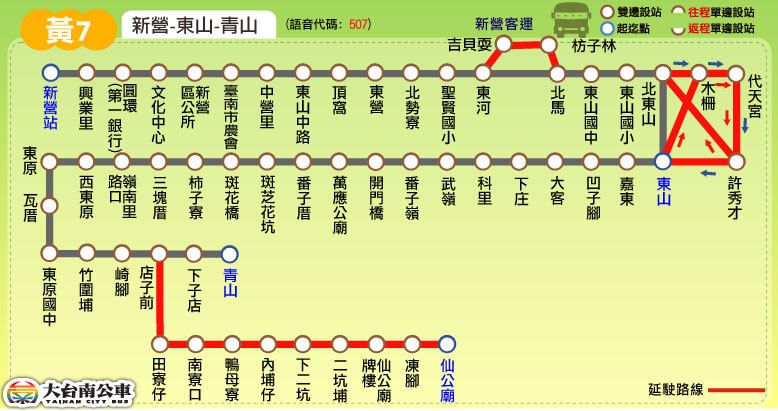
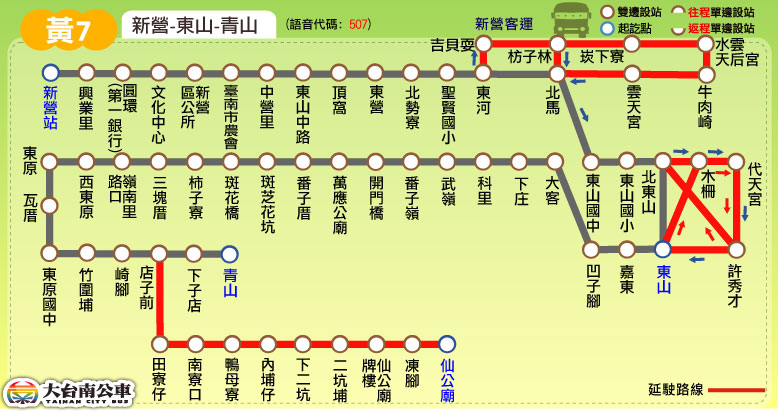
更新路線圖、時刻表：黃7(新增「新營-水雲里-東山」班次)

Changed region(s): [[0.5553, 0.0584, 0.9871, 0.7591]]

diff --git a/route/fare_and_time/yellow_7.js b/route/fare_and_time/yellow_7.js
@@ -3,7 +3,7 @@ yellow_7_interval_stop = [ // 2018.07.03 checked
 ["新營站","興業里","圓環(第一銀行)","文化中心","新營區公所","臺南市農會"], // 新營
 ["中營里","東山中路","頂窩","東營"], // 頂窩
 ["北勢寮","聖賢國小"], // 北勢寮
-["東河","吉貝耍","枋子林"], // 東河
+["東河","吉貝耍","枋子林","崁下寮","水雲天后宮","牛肉崎","雲天宮"], // 東河
 ["北馬"], // 北馬
 ["東山國中","東山國小","北東山","木柵","代天宮","許秀才","東山","嘉東"], // 東山
 ["凹子腳","大客","下庄","科里"], // 大客
@@ -40,63 +40,72 @@ yellow_7_fare = [
 // format = [time at the start stop] or
 // [time, other] or
 // [time, start_stop, end_stop, other]
-yellow_7_main_stop_name = ["新營","東河","吉貝耍","北東山","許秀才","東山","斑花橋","東原","青山","仙公廟<br /><font color=\"red\">(假日延駛)</font>"];
-yellow_7_main_stop_time_consume = [0, 18, 19, 26, 30, 28, 39, 45, 50, 70];
-yellow_7_important_stop = [0, 5, 8, 9]; // 新營, 東山, 青山, 仙公廟
+yellow_7_main_stop_name = ["新營","東河","吉貝耍","牛肉崎","北東山","許秀才","東山","斑花橋","東原","青山","仙公廟<br /><font color=\"red\">(假日延駛)</font>"];
+yellow_7_main_stop_time_consume = [0, 18, 19, 24, 26, 30, 28, 39, 45, 50, 70];
+yellow_7_important_stop = [0, 6, 9, 10]; // 新營, 東山, 青山, 仙公廟
 start_stop = 0; // 新營
-end_stop = 8; // 青山
-end_stop_2 = 5; // 東山
+end_stop = 9; // 青山
+end_stop_2 = 6; // 東山
 skip_stop_1 = 2; // 吉貝耍
-skip_stop_2 = 4; // 許秀才
-yellow_7_time_go = [["05:45",start_stop,end_stop_2,[skip_stop_1,skip_stop_2,[start_stop+1,-3,start_stop+3,-1,end_stop_2,1]]],
-["06:55",start_stop,end_stop,[skip_stop_1,skip_stop_2,[start_stop+1,2,start_stop+3,2,end_stop,1]]],
-["08:20",start_stop,end_stop,[skip_stop_2,[start_stop+1,3,start_stop+3,3]]],
-["09:30",start_stop,end_stop,[skip_stop_1,skip_stop_2,[end_stop-1,-2]]],
-["10:40",start_stop,end_stop,[skip_stop_2]],
-["11:50",start_stop,end_stop,[skip_stop_1,[skip_stop_2,-1,skip_stop_2+1,7,end_stop_2+1,-3]]],
-["12:50",start_stop,end_stop,[skip_stop_1,skip_stop_2]],
-["14:20",start_stop,end_stop,[skip_stop_1,skip_stop_2,[end_stop_2+1,-2,end_stop,-1]]],
-["15:35",start_stop,end_stop,[skip_stop_1,skip_stop_2,[start_stop+1,-1,start_stop+3,-2,end_stop_2,1]]],
-["16:30",start_stop,end_stop,[skip_stop_1,skip_stop_2]],
-["17:30",start_stop,end_stop,[[skip_stop_2+1,8]]],
-["18:40",start_stop,end_stop,[skip_stop_1,skip_stop_2,[end_stop_2+1,-2]]]];
-yellow_7_time_return = [["06:10",end_stop_2,start_stop,[skip_stop_1,skip_stop_2,[start_stop+3,1,start_stop,-4]]],
-["05:50",end_stop,start_stop,[[skip_stop_2,6,skip_stop_2-1,2]]],
-["07:55",end_stop,start_stop,[skip_stop_1,skip_stop_2]],
-["09:30",end_stop,start_stop,[skip_stop_1,skip_stop_2]],
-["10:25",end_stop,start_stop,[skip_stop_2,[end_stop_2,-2,start_stop,2]]],
-["11:35",end_stop,start_stop,[skip_stop_1,skip_stop_2,[end_stop_2,-1,start_stop,1]]],
-["12:55",end_stop,start_stop,[skip_stop_2]],
-["13:45",end_stop,start_stop,[skip_stop_1,skip_stop_2,[end_stop-1,-1,end_stop_2,-3,start_stop+3,-1,start_stop+1,1,start_stop,-1]]],
-["15:15",end_stop,start_stop,[skip_stop_1,skip_stop_2,[end_stop_2,-2,start_stop,2]]],
-["16:35",end_stop,start_stop,[skip_stop_1,skip_stop_2,[end_stop_2,-2,start_stop+1,-1,start_stop,-2]]],
-["17:25",end_stop,start_stop,[skip_stop_1,skip_stop_2]],
-["18:45",end_stop,start_stop,[skip_stop_1,skip_stop_2,[end_stop_2,-3,start_stop+1,-1,start_stop,-1]]]];
+skip_stop_beef = 3; // 牛肉崎
+skip_stop_2 = 5; // 許秀才
+yellow_7_time_go = [["05:45",start_stop,end_stop_2,[skip_stop_1,skip_stop_beef,skip_stop_2,[start_stop+1,-3,start_stop+3,-1,end_stop_2,1]]],
+["06:55",start_stop,end_stop,[skip_stop_1,skip_stop_beef,skip_stop_2,[start_stop+1,2,start_stop+3,2,end_stop,1]]],
+["08:20",start_stop,end_stop,[skip_stop_beef,skip_stop_2,[start_stop+1,3,start_stop+3,3]]],
+["08:55",start_stop,end_stop_2,[skip_stop_2,[start_stop+1,-1,skip_stop_beef,1,skip_stop_beef+1,17]]],
+["09:30",start_stop,end_stop,[skip_stop_1,skip_stop_beef,skip_stop_2,[end_stop-1,-2]]],
+["10:40",start_stop,end_stop,[skip_stop_beef,skip_stop_2]],
+["11:50",start_stop,end_stop,[skip_stop_1,skip_stop_beef,[skip_stop_2,-1,skip_stop_2+1,7,end_stop_2+1,-3]]],
+["12:30",start_stop,end_stop_2,[skip_stop_2,[start_stop+1,-1,skip_stop_beef,1,skip_stop_beef+1,17]]],
+["12:50",start_stop,end_stop,[skip_stop_1,skip_stop_beef,skip_stop_2]],
+["14:20",start_stop,end_stop,[skip_stop_1,skip_stop_beef,skip_stop_2,[end_stop_2+1,-2,end_stop,-1]]],
+["15:35",start_stop,end_stop,[skip_stop_1,skip_stop_beef,skip_stop_2,[start_stop+1,-1,start_stop+3,-2,end_stop_2,1]]],
+["16:30",start_stop,end_stop,[skip_stop_1,skip_stop_beef,skip_stop_2]],
+["17:30",start_stop,end_stop,[skip_stop_beef,[skip_stop_2+1,8]]],
+["18:40",start_stop,end_stop,[skip_stop_1,skip_stop_beef,skip_stop_2,[end_stop_2+1,-2]]]];
+yellow_7_time_return = [["06:10",end_stop_2,start_stop,[skip_stop_1,skip_stop_beef,skip_stop_2,[start_stop+3,1,start_stop,-4]]],
+["05:50",end_stop,start_stop,[skip_stop_beef,[skip_stop_2,6,skip_stop_2-1,2]]],
+["07:55",end_stop,start_stop,[skip_stop_1,skip_stop_beef,skip_stop_2]],
+["09:45",end_stop_2,start_stop,[skip_stop_2,[skip_stop_beef,17,skip_stop_beef-1,1,start_stop,-1]]],
+["09:30",end_stop,start_stop,[skip_stop_1,skip_stop_beef,skip_stop_2]],
+["10:25",end_stop,start_stop,[skip_stop_beef,skip_stop_2,[end_stop_2,-2,start_stop,2]]],
+["11:35",end_stop,start_stop,[skip_stop_1,skip_stop_beef,skip_stop_2,[end_stop_2,-1,start_stop,1]]],
+["12:55",end_stop,start_stop,[skip_stop_beef,skip_stop_2]],
+["13:20",end_stop_2,start_stop,[skip_stop_2,[skip_stop_beef,17,skip_stop_beef-1,1,start_stop,-1]]],
+["13:45",end_stop,start_stop,[skip_stop_1,skip_stop_beef,skip_stop_2,[end_stop-1,-1,end_stop_2,-3,start_stop+3,-1,start_stop+1,1,start_stop,-1]]],
+["15:15",end_stop,start_stop,[skip_stop_1,skip_stop_beef,skip_stop_2,[end_stop_2,-2,start_stop,2]]],
+["16:35",end_stop,start_stop,[skip_stop_1,skip_stop_beef,skip_stop_2,[end_stop_2,-2,start_stop+1,-1,start_stop,-2]]],
+["17:25",end_stop,start_stop,[skip_stop_1,skip_stop_beef,skip_stop_2]],
+["18:45",end_stop,start_stop,[skip_stop_1,skip_stop_beef,skip_stop_2,[end_stop_2,-3,start_stop+1,-1,start_stop,-1]]]];
 
 // holiday schedule
-yellow_7_holiday_time_go = [["05:45",start_stop,end_stop_2,[skip_stop_1,skip_stop_2,[start_stop+1,-3,start_stop+3,-1,end_stop_2,1]]],
-["06:55",[skip_stop_1,skip_stop_2,[start_stop+1,2,start_stop+3,2,end_stop,1,end_stop+1,-5]]],
-["07:15",[skip_stop_1,skip_stop_2]],
-["08:20",start_stop,end_stop,[skip_stop_2,[start_stop+1,3,start_stop+3,3]]],
-["09:30",start_stop,end_stop,[skip_stop_1,skip_stop_2,[end_stop-1,-2]]],
-["10:40",[skip_stop_2]],
-["11:50",[skip_stop_1,[skip_stop_2,-1,skip_stop_2+1,7,end_stop_2+1,-3,end_stop,-3]]],
-["12:50",start_stop,end_stop,[skip_stop_1,skip_stop_2]],
-["14:20",[skip_stop_1,skip_stop_2,[end_stop_2+1,-2,end_stop,-1,end_stop+1,3]]],
-["15:35",start_stop,end_stop,[skip_stop_1,skip_stop_2,[start_stop+1,-1,start_stop+3,-2,end_stop_2,1]]],
-["16:30",start_stop,end_stop,[skip_stop_1,skip_stop_2]],
-["17:30",start_stop,end_stop,[[skip_stop_2+1,8]]],
-["18:40",start_stop,end_stop,[skip_stop_1,skip_stop_2,[end_stop_2+1,-2]]]];
-yellow_7_holiday_time_return = [["06:10",end_stop_2,start_stop,[skip_stop_1,skip_stop_2,[start_stop+3,1,start_stop,-4]]],
-["05:50",end_stop,start_stop,[[skip_stop_2,6,skip_stop_2-1,2]]],
-["08:10",[skip_stop_1,skip_stop_2]],
-["08:30",[skip_stop_1,skip_stop_2]],
-["09:30",end_stop,start_stop,[skip_stop_1,skip_stop_2]],
-["10:25",end_stop,start_stop,[skip_stop_2,[end_stop_2,-2,start_stop,2]]],
-["11:55",[skip_stop_1,skip_stop_2,[end_stop_2,-2,start_stop,2]]],
-["13:05",[skip_stop_2,[end_stop,-4,start_stop+1,-1]]],
-["13:45",end_stop,start_stop,[skip_stop_1,skip_stop_2,[end_stop-1,-1,end_stop_2,-3,start_stop+3,-1,start_stop+1,1,start_stop,-1]]],
-["15:35",[skip_stop_1,skip_stop_2]],
-["16:35",end_stop,start_stop,[skip_stop_1,skip_stop_2,[end_stop_2,-2,start_stop+1,-1,start_stop,-2]]],
-["17:25",end_stop,start_stop,[skip_stop_1,skip_stop_2]],
-["18:45",end_stop,start_stop,[skip_stop_1,skip_stop_2,[end_stop_2,-3,start_stop+1,-1,start_stop,-1]]]];
+yellow_7_holiday_time_go = [["05:45",start_stop,end_stop_2,[skip_stop_1,skip_stop_beef,skip_stop_2,[start_stop+1,-3,start_stop+3,-1,end_stop_2,1]]],
+["06:55",[skip_stop_1,skip_stop_beef,skip_stop_2,[start_stop+1,2,start_stop+3,2,end_stop,1,end_stop+1,-5]]],
+["07:15",[skip_stop_1,skip_stop_beef,skip_stop_2]],
+["08:20",start_stop,end_stop,[skip_stop_beef,skip_stop_2,[start_stop+1,3,start_stop+3,3]]],
+["08:55",start_stop,end_stop_2,[skip_stop_2,[start_stop+1,-1,skip_stop_beef,1,skip_stop_beef+1,17]]],
+["09:30",start_stop,end_stop,[skip_stop_1,skip_stop_beef,skip_stop_2,[end_stop-1,-2]]],
+["10:40",[skip_stop_beef,skip_stop_2]],
+["11:50",[skip_stop_1,skip_stop_beef,[skip_stop_2,-1,skip_stop_2+1,7,end_stop_2+1,-3,end_stop,-3]]],
+["12:30",start_stop,end_stop_2,[skip_stop_2,[start_stop+1,-1,skip_stop_beef,1,skip_stop_beef+1,17]]],
+["12:50",start_stop,end_stop,[skip_stop_1,skip_stop_beef,skip_stop_2]],
+["14:20",[skip_stop_1,skip_stop_beef,skip_stop_2,[end_stop_2+1,-2,end_stop,-1,end_stop+1,3]]],
+["15:35",start_stop,end_stop,[skip_stop_1,skip_stop_beef,skip_stop_2,[start_stop+1,-1,start_stop+3,-2,end_stop_2,1]]],
+["16:30",start_stop,end_stop,[skip_stop_1,skip_stop_beef,skip_stop_2]],
+["17:30",start_stop,end_stop,[skip_stop_beef,[skip_stop_2+1,8]]],
+["18:40",start_stop,end_stop,[skip_stop_1,skip_stop_beef,skip_stop_2,[end_stop_2+1,-2]]]];
+yellow_7_holiday_time_return = [["06:10",end_stop_2,start_stop,[skip_stop_1,skip_stop_beef,skip_stop_2,[start_stop+3,1,start_stop,-4]]],
+["05:50",end_stop,start_stop,[skip_stop_beef,[skip_stop_2,6,skip_stop_2-1,2]]],
+["08:10",[skip_stop_1,skip_stop_beef,skip_stop_2]],
+["08:30",[skip_stop_1,skip_stop_beef,skip_stop_2]],
+["09:45",end_stop_2,start_stop,[skip_stop_2,[skip_stop_beef,17,skip_stop_beef-1,1,start_stop,-1]]],
+["09:30",end_stop,start_stop,[skip_stop_1,skip_stop_beef,skip_stop_2]],
+["10:25",end_stop,start_stop,[skip_stop_beef,skip_stop_2,[end_stop_2,-2,start_stop,2]]],
+["11:55",[skip_stop_1,skip_stop_beef,skip_stop_2,[end_stop_2,-2,start_stop,2]]],
+["13:20",end_stop_2,start_stop,[skip_stop_2,[skip_stop_beef,17,skip_stop_beef-1,1,start_stop,-1]]],
+["13:05",[skip_stop_beef,skip_stop_2,[end_stop,-4,start_stop+1,-1]]],
+["13:45",end_stop,start_stop,[skip_stop_1,skip_stop_beef,skip_stop_2,[end_stop-1,-1,end_stop_2,-3,start_stop+3,-1,start_stop+1,1,start_stop,-1]]],
+["15:35",[skip_stop_1,skip_stop_beef,skip_stop_2]],
+["16:35",end_stop,start_stop,[skip_stop_1,skip_stop_beef,skip_stop_2,[end_stop_2,-2,start_stop+1,-1,start_stop,-2]]],
+["17:25",end_stop,start_stop,[skip_stop_1,skip_stop_beef,skip_stop_2]],
+["18:45",end_stop,start_stop,[skip_stop_1,skip_stop_beef,skip_stop_2,[end_stop_2,-3,start_stop+1,-1,start_stop,-1]]]];

diff --git a/yellow/yellow_7.html b/yellow/yellow_7.html
@@ -23,7 +23,7 @@
 	block_route_map(null);
 	block_route_info(route_interval,'新營客運','','里程計費','http://www.2384.com.tw/ebus/jsp/ajaxBus.jsp?pathId=1507&locale=zh_TW');
 	block_fare(0, null);
-	block_multiple_time_schedule( [['平日班表','normal'],['假日班表','holiday']],'兩種繞駛：<font color="#B000FF">1.繞駛吉貝耍、枋子林</font>　<font color="#2000AA">2.繞駛木柵、許秀才</font><h1><font color="red">僅假日延駛仙公廟</font></h1>');
+	block_multiple_time_schedule( [['平日班表','normal'],['假日班表','holiday']],'三種繞駛：<span style="color:#B000FF">1.繞駛吉貝耍、枋子林</span>　<span style="color:#2000AA">2.繞駛木柵、許秀才</span>　<span style="color:#700055">3.繞駛吉貝耍、牛肉崎、枋子林</span><h1><font color="red">僅假日延駛仙公廟</font></h1>');
 	block_transfer(transfer_hsinyin);
 	block_copyright();
 </script>
